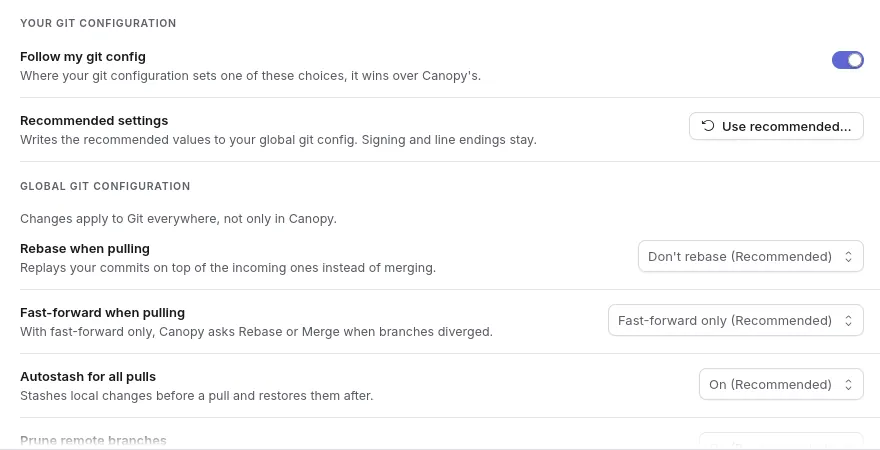
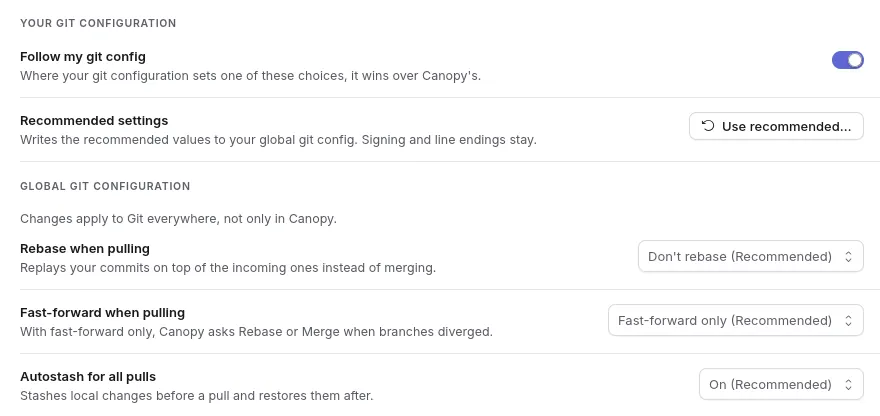
docs(site): keep the rail off the window edge and fade wide pictures
The rail sat 8 px from the window's edge below 1350 px: section text
now starts at least 48 px in, so the rail keeps 24 px, and phones,
which have no room beside the text, leave it out. On phones the hero
window and the cropped full views fade at the right edge instead of
being cut mid-word, and the Settings crop ends on a row boundary.

diff --git a/site/styles.css b/site/styles.css
@@ -71,7 +71,7 @@
   --ease: cubic-bezier(0.22, 1, 0.36, 1);
   --pad: clamp(56px, 6vw, 96px);
   --h2-size: clamp(34px, 4.4vw, 60px);
-  --rail-gap: 30px;
+  --rail-gap: 24px;
   --dot: 14px;
 }
 
@@ -360,9 +360,11 @@ kbd + kbd { margin-left: 3px; }
   position: relative; isolation: isolate; padding: var(--pad) 0;
   background: radial-gradient(ellipse 75% 60% at 68% 60%, color-mix(in srgb, var(--lane) var(--tint-mix), transparent), transparent 72%);
   /* The rail: a line of the commit graph in this section's lane colour, with a commit at its heading */
-  --rail-x: max(8px, calc(max(var(--gutter), (100% - var(--max)) / 2) - var(--rail-gap)));
+  /* The text sits at least 48px in, so the rail always keeps 24px from the window's edge */
+  --rail-x: calc(max(48px, (100% - var(--max)) / 2) - var(--rail-gap));
   --dot-y: calc(var(--pad) + var(--h2-size) * 0.52);
 }
+.sec > .wrap { padding-left: max(48px, env(safe-area-inset-left)); }
 .history { --lane: var(--lane-1); }
 .changes { --lane: var(--lane-2); }
 .conflicts { --lane: var(--lane-3); }
@@ -630,7 +632,12 @@ kbd + kbd { margin-left: 3px; }
 
 /* Phones */
 @media (max-width: 600px) {
-  :root { --gutter: 20px; --pad: 56px; --h2-size: clamp(31px, 9vw, 38px); --rail-gap: 12px; --dot: 10px; }
+  :root { --gutter: 20px; --pad: 56px; --h2-size: clamp(31px, 9vw, 38px); }
+  /* No room for the rail beside the text: the lane colours stay in the tints and the light */
+  .sec::before, .sec::after { display: none; }
+  .sec > .wrap { padding-left: max(var(--gutter), env(safe-area-inset-left)); }
+  /* Pictures wider than the screen fade out at the right edge instead of being cut */
+  .pair-main, .hero-shot { mask-image: linear-gradient(to right, #000 calc(100% - 56px), transparent); }
   .top-inner { height: 58px; }
   .hero { padding-top: 40px; }
   .hero h1 { font-size: clamp(40px, 11.5vw, 50px); line-height: 1.0; letter-spacing: -0.038em; }

diff --git a/site/index.html b/site/index.html
@@ -313,10 +313,10 @@
       </div>
       <figure class="window glow detail-shot" data-reveal="shot">
           <picture class="shot-dark">
-            <img src="assets/shots/m-settings-git-crop.webp" width="880" height="450" loading="lazy" alt="Settings, Git: Follow my git config switched on, Use recommended, and the pull choices, each showing its value and Recommended.">
+            <img src="assets/shots/m-settings-git-crop.webp" width="880" height="416" loading="lazy" alt="Settings, Git: Follow my git config switched on, Use recommended, and the pull choices, each showing its value and Recommended.">
           </picture>
           <picture class="shot-light">
-            <img src="assets/shots/d-settings-git-crop.webp" width="880" height="450" loading="lazy" alt="Settings, Git, in Daylight.">
+            <img src="assets/shots/d-settings-git-crop.webp" width="880" height="416" loading="lazy" alt="Settings, Git, in Daylight.">
           </picture>
       </figure>
     </div>

diff --git a/site/README.md b/site/README.md
@@ -24,7 +24,9 @@ The page's motif is the app's commit graph. Each section has a lane colour, take
 lanes in `ui/theme.rs` (Midnight's in dark, Daylight's in light): History indigo, Changes green,
 Conflicts pink, Requests amber, Git settings blue, Keyboard orange, Themes violet, Privacy teal,
 Download indigo again. A rail in the left gutter carries that colour from section to section, with
-a commit dot level with each heading, and the section's ground and the light under its shots are
+a commit dot level with each heading; it keeps at least 24 px from the window's edge (below
+1200 px the section text moves in to 48 px to make room) and is left out on phones, where there is
+no room beside the text, and the section's ground and the light under its shots are
 faintly tinted with it (an offset, soft shadow; no zero-offset halos). Sections alternate their
 layout: text beside a shot, on either side, or a full view with an enlarged detail of it (a hunk,
 the conflict card, a request row) laid over one corner; phones show the full view's crop only.
@@ -106,7 +108,9 @@ link previews do not read WebP.
   (`object-fit: cover`, anchored top left) so they show at about three quarters of their real size
   and their text stays readable; the hero shot is drawn at 150 % width for the same reason, and
   the shortcuts sheet is left out, since the rules beside it say the same; the enlarged details
-  are left out too, as the crops already show those parts at that size. Phones and tablets
+  are left out too, as the crops already show those parts at that size. A picture wider than the
+  screen (the hero window, the cropped full views) fades out over its last 56 px instead of ending
+  in a hard cut. Phones and tablets
   (detected, or any coarse pointer) get controls at least 44 px tall, and the header, page edges
   and footer keep clear of notches through `viewport-fit=cover` and `env(safe-area-inset-*)`.
 - **Themes.** The Midnight and Daylight slider has a Standard and Deeper switch that swaps both
